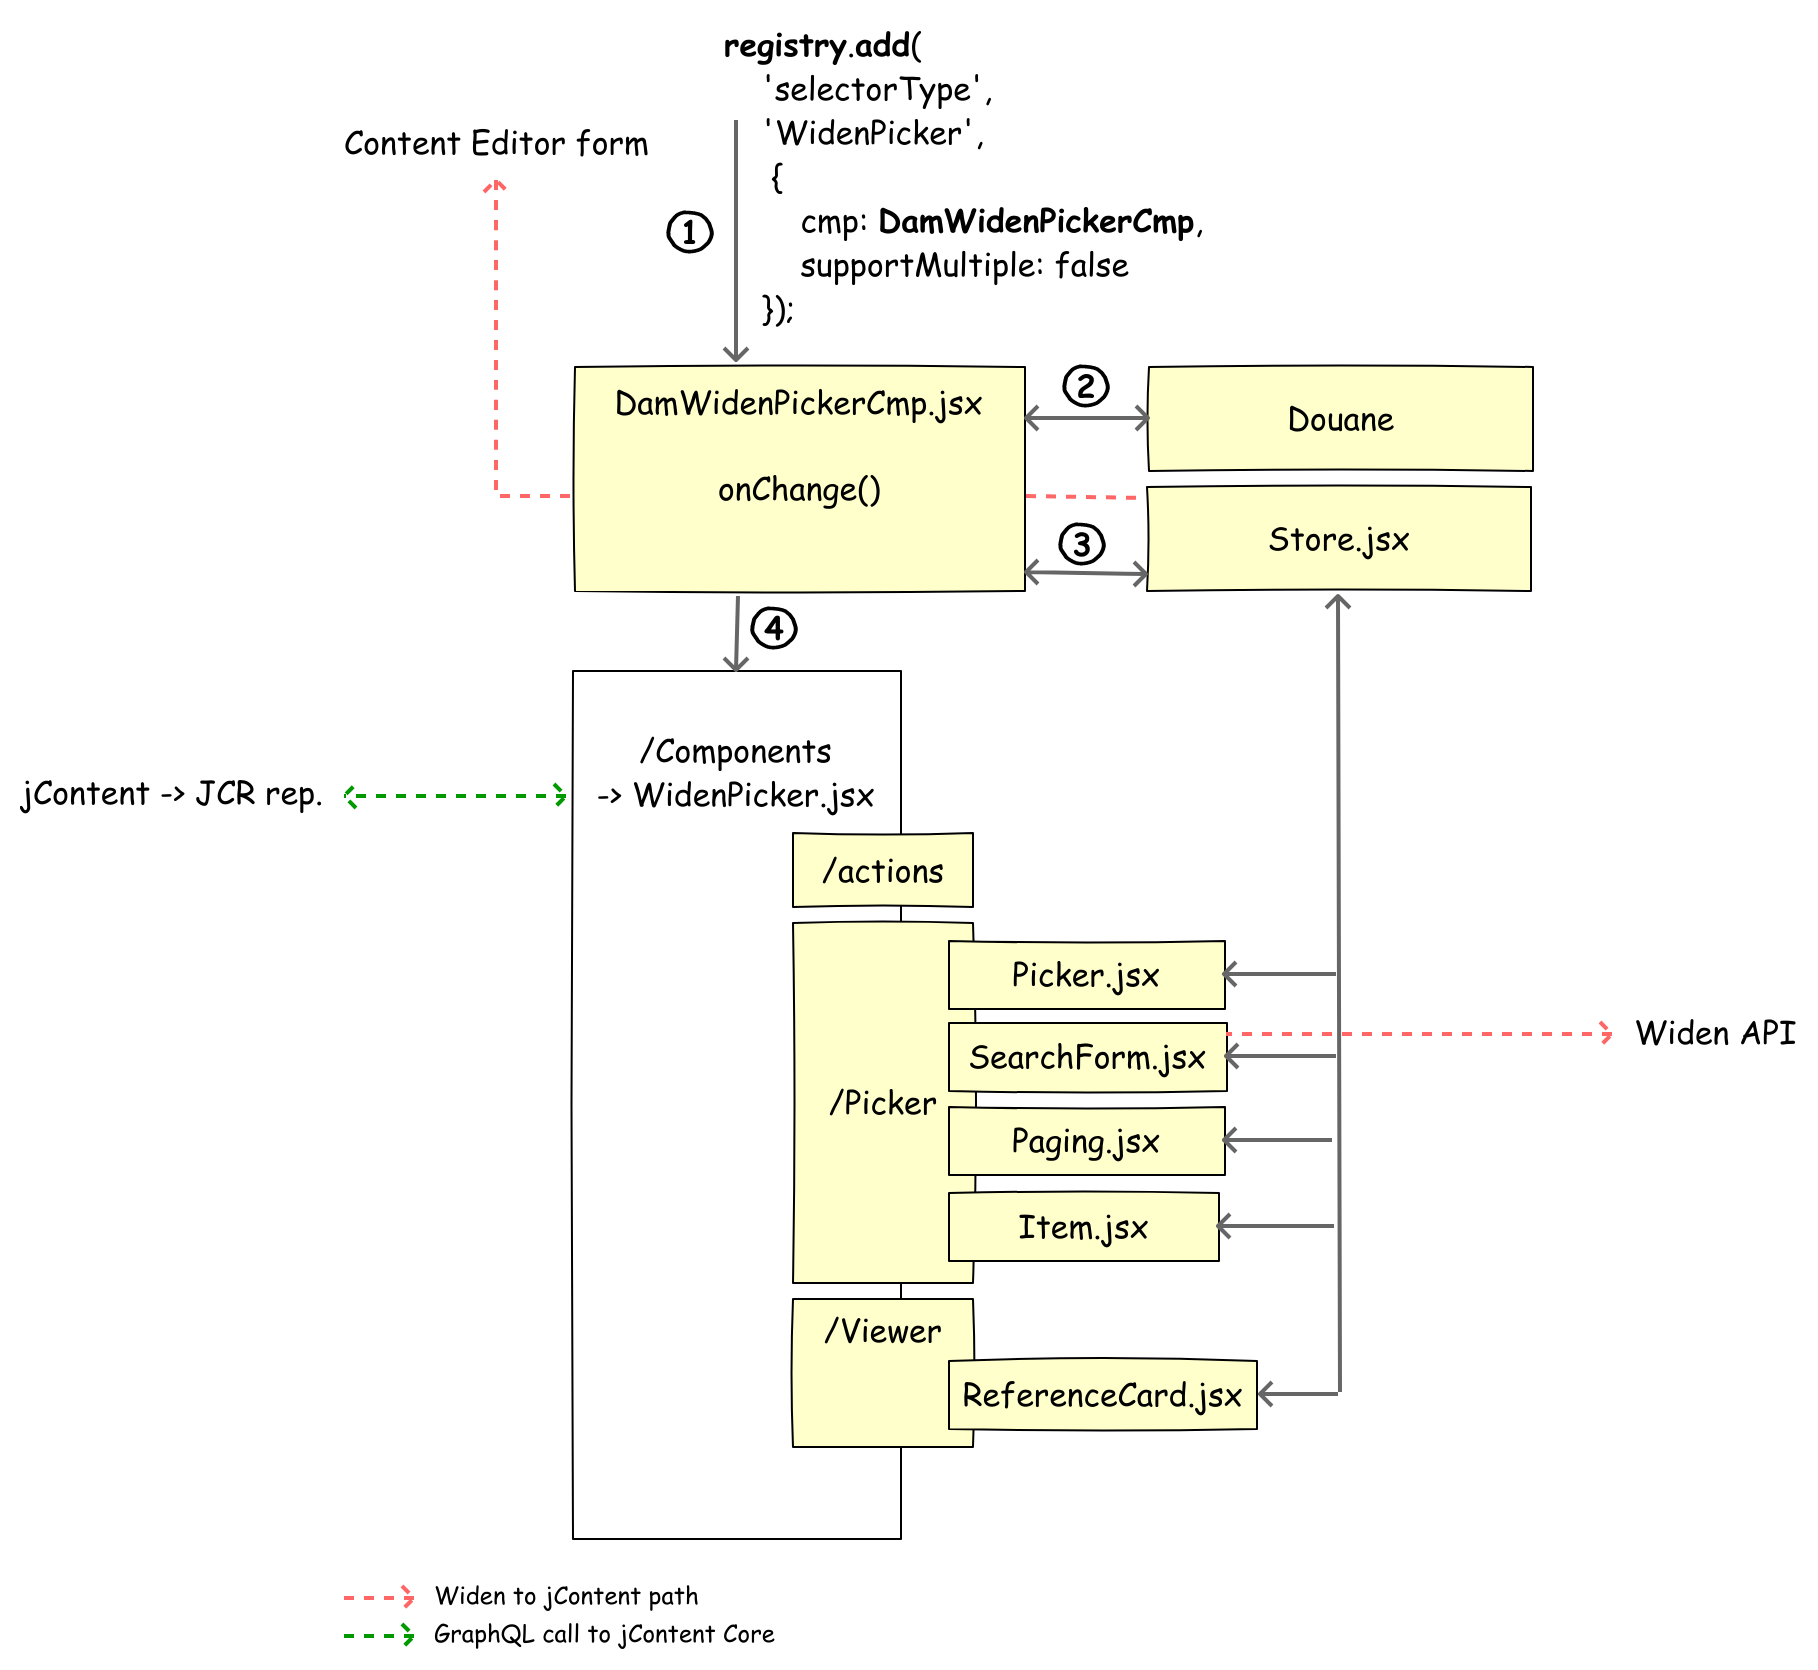
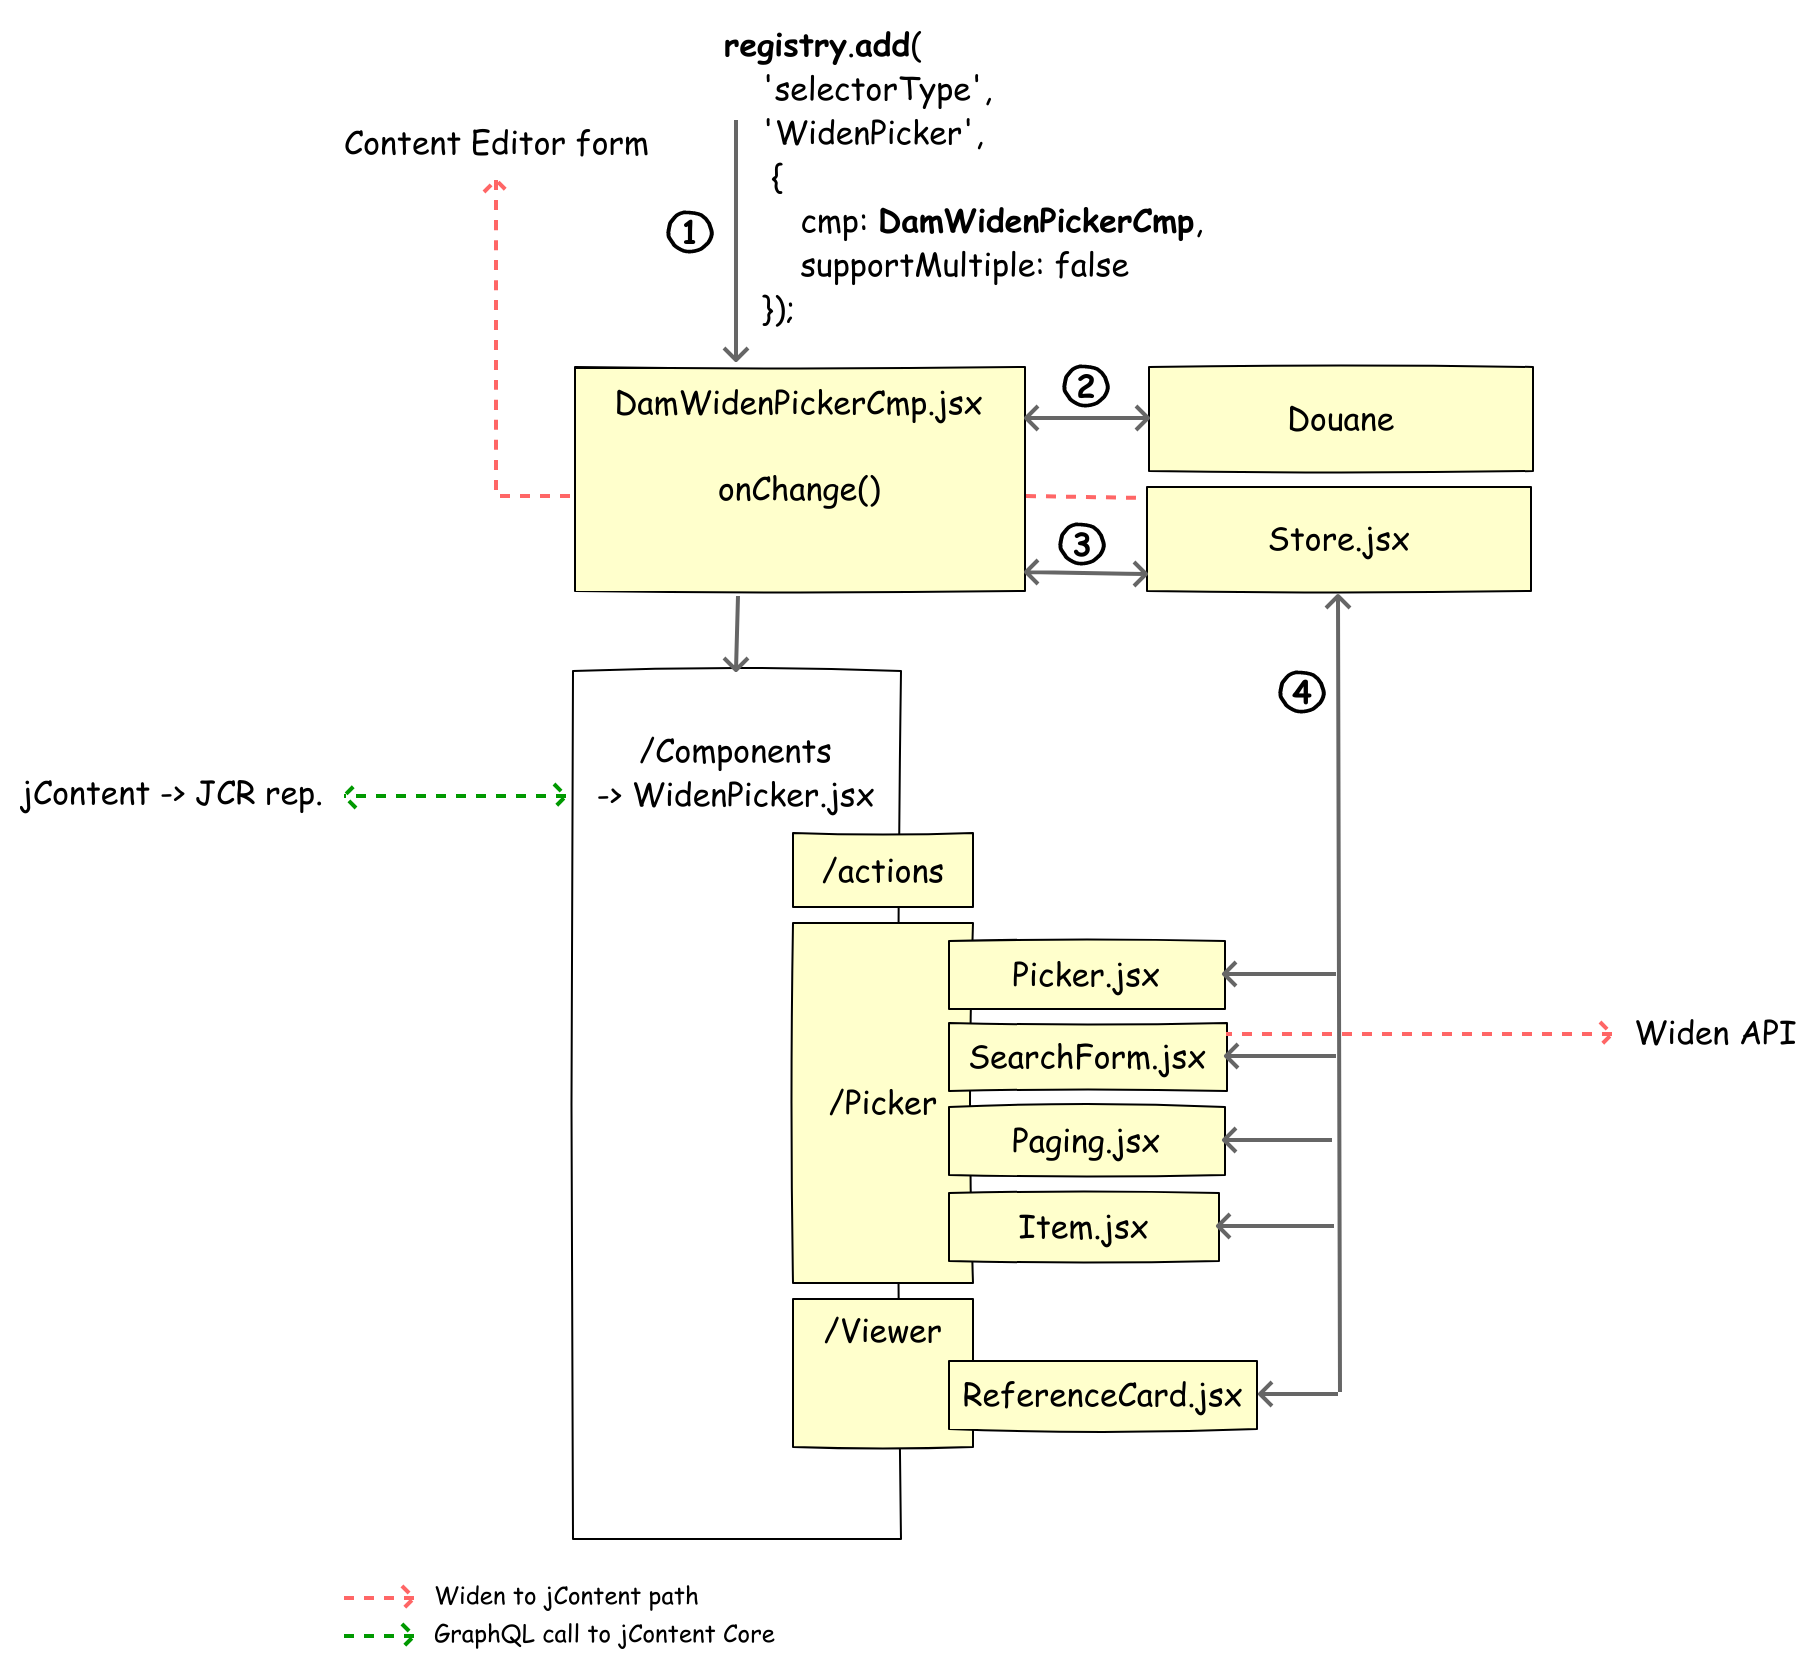
v8.0.1.4 OSGI
continue to review the picker.md
update images

diff --git a/content-editor-extensions/src/javascript/ContentEditorExtensions/SelectorTypes/DamWidenPicker/Store/Store.jsx b/content-editor-extensions/src/javascript/ContentEditorExtensions/SelectorTypes/DamWidenPicker/Store/Store.jsx
@@ -142,7 +142,7 @@ const reducer = (state, action) => {
             const editorValue = uuid;
             console.debug('[STORE] UPDATE_SELECTED_ITEM_UUID - payload: ', payload);
             editorOnChange(editorValue);
-            console.debug('[STORE] UPDATE_SELECTED_ITEM_UUID - coming showPickerDialog: ', !state.showPickerDialog);
+            // console.debug('[STORE] UPDATE_SELECTED_ITEM_UUID - coming showPickerDialog: ', !state.showPickerDialog);
             return {
                 ...state,
                 editorValue,
@@ -153,7 +153,7 @@ const reducer = (state, action) => {
 
         case 'UPDATE_SELECTED_ITEM': {
             const {widenID} = payload;
-            const {editorOnChange,mountPoint} = state;
+            const {mountPoint} = state;
             console.debug('[STORE] UPDATE_SELECTED_ITEM - payload: ', payload);
             //TODO do a graphQL call to the EDP to get uuid and return this jContent
             // const editorValue = `${mountPoint}/${widenID}`;

diff --git a/content-editor-extensions/src/javascript/ContentEditorExtensions/SelectorTypes/DamWidenPicker/DamWidenPickerCmp.jsx b/content-editor-extensions/src/javascript/ContentEditorExtensions/SelectorTypes/DamWidenPicker/DamWidenPickerCmp.jsx
@@ -34,7 +34,7 @@ const DamWidenPickerCmp = ({field, id, value, editorContext,setActionContext, on
     try {
 
         context = contextValidator(context);
-        console.debug("context : ",context);
+        // console.debug("context : ",context);
 
         return (
             <Store context={context}>

diff --git a/doc/en/picker.md b/doc/en/picker.md
@@ -202,15 +202,10 @@ export const registerSelectorTypes = registry => {
 };
 ```
 
-The code of this file is the one to register our application as a `selectorType` named `WidenPicker`.
+The code of this file is to register our application as a `selectorType` named `WidenPicker`.
 Our selector cannot be used by a content property which allows multiple values, and 
-the application to used to render the selector is the `DamWidenPickerCmp` component.
+the application used to render the selector is the `DamWidenPickerCmp` component.
 This component is the main entry of our Widen picker React application.
-
-
-
-
-
 
 ### Widen picker React application
 The core of the Widen Picker is a Readt application used like a front end of the Widen API.
@@ -220,23 +215,25 @@ assets returned are always synchronized with the Widen catalog.
 
 <img src="../images/reactAppArch.png" width="850px"/>
 
-The application starts in the [index.js][react:index.js] (1) file where the context parameters
+The registration process enable the application which starts in the
+[DamWidenPickerCmp][react:DamWidenPickerCmp] (1) file where the context parameters
 are checked based on the [douane's schema][react:douaneSchemaIndex.js] (2).
-If a parameter is missing, a default value is set based on the value declared in the [.env][react:env.js] file.
+If a required parameter is missing, an error is returned.
 
 Then, the cleaned context is send to the [store][react:store.jsx] (3). The `store` is
 a key part of the application. The `store` is the place where:
 * all the actions are defined
 * all the updates are made
-* the `widenPickerInterface` is updated with the selected value:
+* the `onChange` function (provided by *Content Editor*) is called with the selected value:
 
     ```js
-    case "UPDATE_SELECTED_ITEM": {
+    case 'UPDATE_SELECTED_ITEM_UUID': {
+        const {uuid} = payload;
+        const {editorOnChange} = state;
+        const editorValue = uuid;
+        editorOnChange(editorValue);
         ...
-        window.widenPickerInterface.removeAll();
-        window.widenPickerInterface.add(`${state.mountPoint}/${id}`);
-        ...
-    },
+    }
     ```
 
 The `store` is used by all the application components (4). These components are in charge of the UI rendering,
@@ -363,20 +360,25 @@ to the end of the view.
 [widenAPI:AssetById]: https://widenv2.docs.apiary.io/#reference/assets/assets/retrieve-by-id
 
 [react.src.index.js]: ../../content-editor-extensions/src/javascript/index.js
+[react:DamWidenPickerCmp]: ../../content-editor-extensions/src/javascript/ContentEditorExtensions/SelectorTypes/DamWidenPicker/DamWidenPickerCmp.jsx
+[react:douaneSchemaIndex.js]: ../../content-editor-extensions/src/javascript/ContentEditorExtensions/SelectorTypes/DamWidenPicker/douane/lib/schema/index.js
+[react:store.jsx]: ../../content-editor-extensions/src/javascript/ContentEditorExtensions/SelectorTypes/DamWidenPicker/Store/Store.jsx
+
+
+
 [ContentEditorExtensions.register]: ../../content-editor-extensions/src/javascript/ContentEditorExtensions.register.jsx
 [SelectorTypes.js]: ../../content-editor-extensions/src/javascript/ContentEditorExtensions/SelectorTypes/SelectorTypes.js
 
 [pom.xml]: ../../content-editor-extensions/pom.xml
 [packages.json]: ../../content-editor-extensions/package.json
 
+
+
 <!-- still use ?-->
 [definition.cnd]: ../../content-editor-extensions/src/main/resources/META-INF/definitions.cnd
 [widenAssetPicker.js]: ../../content-editor-extensions/src/main/resources/javascript/edit-mode/widen-asset-picker.js
 [hidden.widenPicker.jsp]: ../../content-editor-extensions/src/main/resources/nt_base/html/base.hidden.widenPicker.jsp
-[react:index.js]: ../../content-editor-extensions/src/REACT/src/index.js
-[react:douaneSchemaIndex.js]: ../../content-editor-extensions/src/REACT/src/douane/lib/schema/index.js
-[react:env.js]: ../../content-editor-extensions/src/REACT/.env
-[react:store.jsx]: ../../content-editor-extensions/src/REACT/src/Store/Store.jsx
+
 
 
 [src/main/resources/css/REACTBuildApp]: ../../content-editor-extensions/src/main/resources/css/REACTBuildApp
